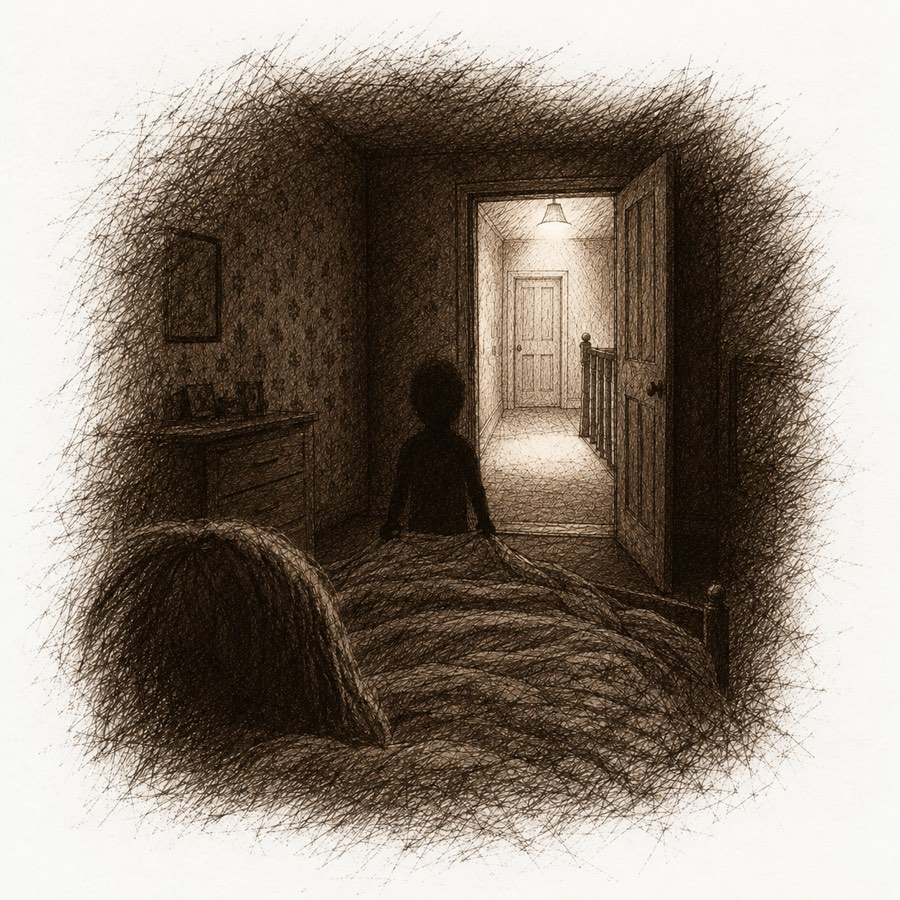
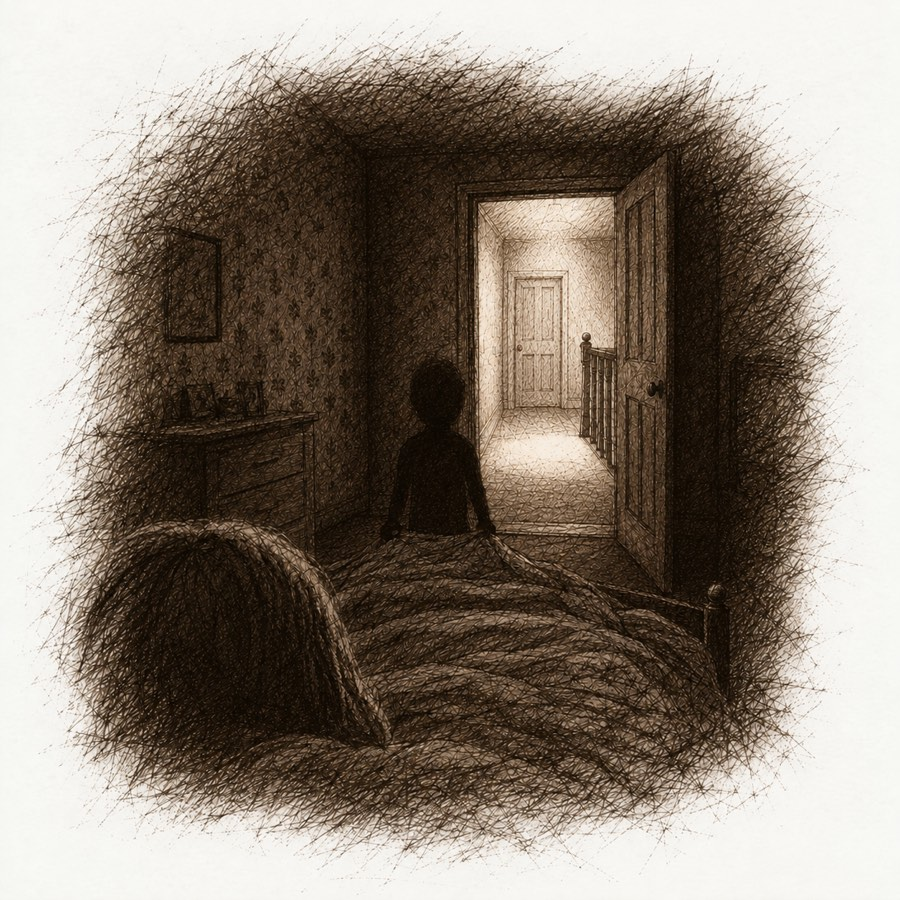
Sketches: no caption, a quicker fade, and the corrected visitor sketch
Matt's call: sketches are plainly drawings, so they drop the "AI recreation"
caption (photo-like AI images keep it; house style updated). The ink fade is 1s
instead of 1.8s. The visitor sketch no longer shows a landing lamp, which Fran
said wasn't there. Bumps ?v= to 35.

Changed region(s): [[0.0622, 0.0622, 0.9333, 0.9644], [0.3111, 0.6222, 0.3733, 0.6533], [0.28, 0.5911, 0.3111, 0.6222]]

diff --git a/content/reports/008.html b/content/reports/008.html
@@ -28,15 +28,15 @@
 <h3>Part 1: The Box Room</h3>
 <p>I was around five or six years old and living at the house on Astbury Avenue. Apart from this one incident, I can’t recall anything paranormal ever happening to me in that house. I’ve had a few odd things happen over my lifetime, but nothing that has ever made me a believer in the supernatural. As it stands, I don’t believe in this sort of thing, and I have no interest in it beyond recording what happened to me regarding this particular event.</p>
 <p>I was sleeping in the box room when it happened. Whenever I slept in that room, I had horrible, recurring nightmares and night terrors. Two of them I can still remember clearly.</p>
-<figure class="sketch"><img alt="Ink sketch: a small girl, seen from behind, running up a steep hill towards a row of houses, with heavy darkness behind her." height="900" loading="lazy" src="images/reports/008/sketch-1.jpg" width="900"/><figcaption>AI recreation of the scene</figcaption></figure>
+<figure class="sketch"><img alt="Ink sketch: a small girl, seen from behind, running up a steep hill towards a row of houses, with heavy darkness behind her." height="900" loading="lazy" src="images/reports/008/sketch-1.jpg" width="900"/></figure>
 <p>In the first, I was running up a hill towards the road our house was on, being chased by something. I had no idea what it was. I just remember being absolutely terrified and knowing I had to reach the top of the hill. Every time I got there, I could feel this thing right behind me, and the moment I turned around to look at it, I would wake up.</p>
-<figure class="sketch"><img alt="Ink sketch: a small girl floating in mid-air above her empty bed in a dark box room, sitting upright with her legs straight out in front of her." height="900" loading="lazy" src="images/reports/008/sketch-2.jpg" width="900"/><figcaption>AI recreation of the scene</figcaption></figure>
+<figure class="sketch"><img alt="Ink sketch: a small girl floating in mid-air above her empty bed in a dark box room, sitting upright with her legs straight out in front of her." height="900" loading="lazy" src="images/reports/008/sketch-2.jpg" width="900"/></figure>
 <p>The second nightmare was different. I was suspended in the air above my bed, sitting upright with my legs out in front of me. I couldn’t get myself back down onto the bed, and I couldn’t scream or call for help. The room was always dark around me. I had that dream a lot as a child when I stayed in the box room.</p>
 <h3>Part 2: The Visitor</h3>
 <p>On the night it happened, I was asleep in bed. I remember opening my eyes and realising something was at the end of my bed, tugging at the bottom of my quilt. It wasn’t trying to pull the quilt off me; it was tugging to get my attention. As my eyes adjusted to the darkness, I slowly began to make sense of what I was looking at.</p>
 <p>There was no light in the bedroom. My bed faced out towards the landing, and at the far end of the landing was the bathroom. My bedroom door was open, the bathroom door was closed and the house was silent. It must have been the early hours of the morning, because everyone was asleep. There was a window to my right, but there wasn’t any natural light coming through it. Opposite the window was a big wardrobe built into the space over the stairs, with a large door on it.</p>
 <p>I did see some sort of light on the landing, but it’s really hard to describe. There was a window above the stairs, so it could have been natural light coming from somewhere, but it looked more like a lamp had been switched on. There were no lamps on the landing, though. There was nothing electrical up there at all other than the landing light on the ceiling. Whatever it was, the light was bright enough to show me what was standing at the bottom of my bed.</p>
-<figure class="sketch"><img alt="Ink sketch: a small, featureless black figure at the foot of a child&#39;s bed, holding the quilt, with a strange glow on the landing behind it." height="900" loading="lazy" src="images/reports/008/sketch-3.jpg" width="900"/><figcaption>AI recreation of the scene</figcaption></figure>
+<figure class="sketch"><img alt="Ink sketch: a small, featureless black figure at the foot of a child&#39;s bed, holding the quilt, with a strange glow on the landing behind it." height="900" loading="lazy" src="images/reports/008/sketch-3.jpg" width="900"/></figure>
 <p>It was a small figure, no taller than an eight-year-old child. It was completely black, like a shadow, with no facial features and nothing to tell me whether it was a boy or a girl. Even though I couldn’t see a face, I had the feeling it was a child. When it spoke to me, it felt like it spoke inside my head rather than out loud, and I can’t remember whether the voice sounded male or female.</p>
 <p>It said, “Come and play with us.”</p>
 <p>I told it I couldn’t, because I’d get into trouble if I woke my parents up. I spoke to it out loud as quietly as I could, but whenever it replied, it always seemed to be speaking inside my head.</p>

diff --git a/index.html b/index.html
@@ -26,7 +26,7 @@
   <link rel="preconnect" href="https://fonts.googleapis.com">
   <link rel="preconnect" href="https://fonts.gstatic.com" crossorigin>
   <link href="https://fonts.googleapis.com/css2?family=Courier+Prime:ital,wght@0,400;0,700;1,400&family=Special+Elite&family=Libre+Baskerville:ital,wght@0,400;0,700;1,400&display=swap" rel="stylesheet">
-  <link rel="stylesheet" href="css/styles.css?v=34">
+  <link rel="stylesheet" href="css/styles.css?v=35">
 </head>
 <body>
 
@@ -43,10 +43,10 @@
 
   <div id="partial-footer"></div>
 
-  <script src="js/data.js?v=34"></script>
-  <script src="js/email.js?v=34"></script>
-  <script src="js/comments.js?v=34"></script>
-  <script src="js/lightbox.js?v=34"></script>
-  <script src="js/main.js?v=34"></script>
+  <script src="js/data.js?v=35"></script>
+  <script src="js/email.js?v=35"></script>
+  <script src="js/comments.js?v=35"></script>
+  <script src="js/lightbox.js?v=35"></script>
+  <script src="js/main.js?v=35"></script>
 </body>
 </html>

diff --git a/css/styles.css b/css/styles.css
@@ -363,9 +363,8 @@ aside { display: grid; gap: 1.25rem; }
   -webkit-mask-composite: source-in;
   mask-image: linear-gradient(90deg, transparent, #000 7%, #000 93%, transparent), linear-gradient(transparent, #000 7%, #000 93%, transparent);
   mask-composite: intersect;
-  transition: opacity 1.8s ease-out, filter 1.8s ease-out;
+  transition: opacity 1s ease-out, filter 1s ease-out;
 }
-.prose figure.sketch figcaption { text-align: center; font-size: 10px; padding-top: 0; }
 /* set by main.js until the sketch scrolls into view: it then develops like ink */
 .prose figure.sketch.ink-pending img { opacity: 0; filter: brightness(1.03) blur(5px); }
 @media (min-width: 1180px) {

diff --git a/tools/new_file.py b/tools/new_file.py
@@ -144,7 +144,7 @@ def body_to_html(body, photos, kind, used, sketches=None, used_sketches=None):
                           + (f'<figcaption>{inline(cap)}</figcaption>' if cap else '') + '</figure>')
         elif km:
             # An ink sketch beside the next paragraph (brand/sketch-style/STYLE.md). The marker's
-            # text says what it shows, for screen readers; the caption is always the AI label.
+            # text says what it shows, for screen readers. Sketches carry no caption.
             flush()
             n = int(km.group(1))
             if n not in sketches:
@@ -154,8 +154,7 @@ def body_to_html(body, photos, kind, used, sketches=None, used_sketches=None):
             used_sketches.add(n)
             src, w, h = sketches[n]
             alt = html.escape('Ink sketch: ' + km.group(2).strip().replace('*', ''), quote=True)
-            blocks.append(f'<figure class="sketch"><img alt="{alt}" height="{h}" loading="lazy" src="{src}" width="{w}"/>'
-                          '<figcaption>AI recreation of the scene</figcaption></figure>')
+            blocks.append(f'<figure class="sketch"><img alt="{alt}" height="{h}" loading="lazy" src="{src}" width="{w}"/></figure>')
         elif vm:
             flush()
             bits = [b.strip() for b in vm.group(1).split('|')]

diff --git a/HOUSE-STYLE.md b/HOUSE-STYLE.md
@@ -95,9 +95,10 @@ Use the sections the story needs; this is the usual order.
 - Keep the witness's words and meaning; tidy grammar, never change what happened.
 - Anonymity: use exactly the pseudonyms and details Matt approves. Note that a name has been
   changed the first time it appears.
-- AI-generated images are labelled in the caption ("AI recreation of the scene").
+- AI-generated images are labelled in the caption ("AI recreation of the scene"), except the sketches.
 - **Sketches** (the ink drawings beside a witness's words) go only inside the witness's own
-  account and show only what they described. The rules and the ChatGPT prompt are in
+  account and show only what they described. They are plainly drawings, so they have no caption
+  or label. The rules and the ChatGPT prompt are in
   `brand/sketch-style/STYLE.md` (the Claude Project has it as `14-sketch-style.md`).
 - Sensitive history (abuse, illness, death) - mention only what the story needs, gently, and say
   when something "isn't my story to speculate on".

diff --git a/claude-project/knowledge/01-house-style.md b/claude-project/knowledge/01-house-style.md
@@ -95,9 +95,10 @@ Use the sections the story needs; this is the usual order.
 - Keep the witness's words and meaning; tidy grammar, never change what happened.
 - Anonymity: use exactly the pseudonyms and details Matt approves. Note that a name has been
   changed the first time it appears.
-- AI-generated images are labelled in the caption ("AI recreation of the scene").
+- AI-generated images are labelled in the caption ("AI recreation of the scene"), except the sketches.
 - **Sketches** (the ink drawings beside a witness's words) go only inside the witness's own
-  account and show only what they described. The rules and the ChatGPT prompt are in
+  account and show only what they described. They are plainly drawings, so they have no caption
+  or label. The rules and the ChatGPT prompt are in
   `brand/sketch-style/STYLE.md` (the Claude Project has it as `14-sketch-style.md`).
 - Sensitive history (abuse, illness, death) - mention only what the story needs, gently, and say
   when something "isn't my story to speculate on".

diff --git a/claude-project/knowledge/02-draft-format.md b/claude-project/knowledge/02-draft-format.md
@@ -118,7 +118,7 @@ Narration by Midnight Narrative Horror. Story by The Reporter.
 | `> "A line"` | Pull quote |
 | `- item` | Bullet list |
 | `[PHOTO 3: Caption. Image: Source]` | Photo number 3 as a paperclipped print with caption |
-| `[SKETCH 1: What it shows]` | Sketch number 1, an ink drawing beside the paragraph after it (in the margin on wide screens), captioned "AI recreation of the scene". The text after the colon is read out by screen readers. Only inside the witness's own account (`brand/sketch-style/STYLE.md`). |
+| `[SKETCH 1: What it shows]` | Sketch number 1, an ink drawing beside the paragraph after it (in the margin on wide screens), with no caption. The text after the colon is read out by screen readers. Only inside the witness's own account (`brand/sketch-style/STYLE.md`). |
 | `[VIDEO: https://youtu.be/xxxx \| Caption \| 0:05-1:30]` | Playable YouTube evidence (start-end optional) |
 
 ## Pictures

diff --git a/docs/DRAFT-FORMAT.md b/docs/DRAFT-FORMAT.md
@@ -118,7 +118,7 @@ Narration by Midnight Narrative Horror. Story by The Reporter.
 | `> "A line"` | Pull quote |
 | `- item` | Bullet list |
 | `[PHOTO 3: Caption. Image: Source]` | Photo number 3 as a paperclipped print with caption |
-| `[SKETCH 1: What it shows]` | Sketch number 1, an ink drawing beside the paragraph after it (in the margin on wide screens), captioned "AI recreation of the scene". The text after the colon is read out by screen readers. Only inside the witness's own account (`brand/sketch-style/STYLE.md`). |
+| `[SKETCH 1: What it shows]` | Sketch number 1, an ink drawing beside the paragraph after it (in the margin on wide screens), with no caption. The text after the colon is read out by screen readers. Only inside the witness's own account (`brand/sketch-style/STYLE.md`). |
 | `[VIDEO: https://youtu.be/xxxx \| Caption \| 0:05-1:30]` | Playable YouTube evidence (start-end optional) |
 
 ## Pictures

diff --git a/PROJECT.md b/PROJECT.md
@@ -85,7 +85,7 @@ number; the pinned radio tape stays at the top of the Tapes page whatever its nu
   phones keep the old files. Content and partials don't need it.
 - After adding/changing a report or tape, run `python3 tools/share_pages.py` (new_file.py does this).
 - Never invent facts, dates, sources or quotes in a report. Mark AI-generated images as
-  "AI recreation" in the caption. Keep people's anonymity exactly as the draft says.
+  "AI recreation" in the caption (not the ink sketches, which have no caption). Keep people's anonymity exactly as the draft says.
 - Keep the look: case-file parchment, typewriter headings, stamps, paperclipped photos. No new
   fonts or colours without a ticket saying so.
 - Test on phone width (390px) as well as desktop - most readers are on mobile.

diff --git a/brand/sketch-style/STYLE.md b/brand/sketch-style/STYLE.md
@@ -41,7 +41,9 @@ while they talked. That difference is the point, so the two never mix.
   witness describes as featureless stays featureless: no eyes, no mouth.
 - **Background is neutral.** Plain furniture, wallpaper, a picture frame or a door are fine.
   Nothing that adds to the story (no extra figures, objects that move, symbols, marks).
-- **Every sketch is labelled** as an AI recreation, like any AI image on the site.
+- **No caption or label.** A sketch is plainly a drawing, not evidence, so unlike the
+  photo-like AI recreations elsewhere on the site it carries no "AI recreation" caption. That makes
+  the rules above matter more: the drawing itself must never claim more than the witness said.
 
 ## 4. Making one in ChatGPT
 

diff --git a/claude-project/knowledge/14-sketch-style.md b/claude-project/knowledge/14-sketch-style.md
@@ -41,7 +41,9 @@ while they talked. That difference is the point, so the two never mix.
   witness describes as featureless stays featureless: no eyes, no mouth.
 - **Background is neutral.** Plain furniture, wallpaper, a picture frame or a door are fine.
   Nothing that adds to the story (no extra figures, objects that move, symbols, marks).
-- **Every sketch is labelled** as an AI recreation, like any AI image on the site.
+- **No caption or label.** A sketch is plainly a drawing, not evidence, so unlike the
+  photo-like AI recreations elsewhere on the site it carries no "AI recreation" caption. That makes
+  the rules above matter more: the drawing itself must never claim more than the witness said.
 
 ## 4. Making one in ChatGPT
 
